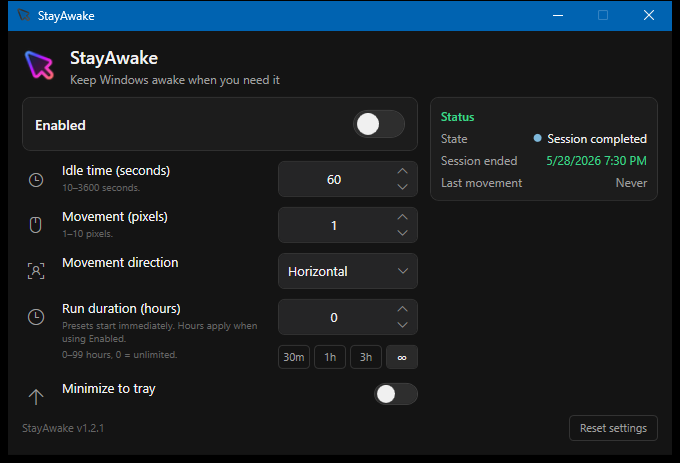
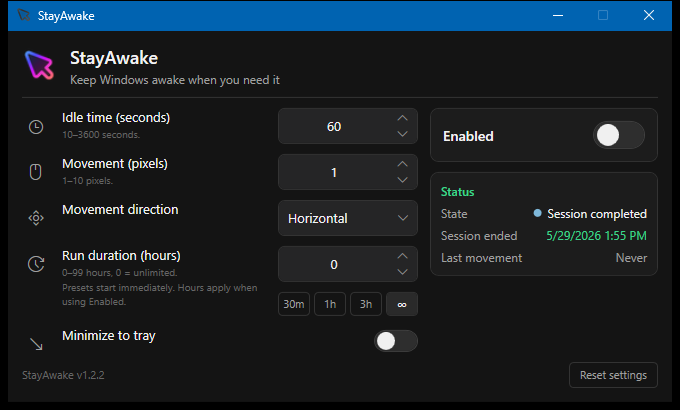
Release v1.2.2: relocate Enabled, Tab order, header divider
- New setting row icons; Enabled toggle moved to right column above Status

- Explicit keyboard Tab order (1-11); header separator below title

- Bump version to 1.2.2; refresh README screenshots and docs

diff --git a/StayAwake/MainWindow.xaml b/StayAwake/MainWindow.xaml
@@ -18,6 +18,7 @@
             <RowDefinition Height="Auto"/>
             <RowDefinition Height="Auto"/>
             <RowDefinition Height="Auto"/>
+            <RowDefinition Height="Auto"/>
         </Grid.RowDefinitions>
 
         <!-- Header -->
@@ -46,8 +47,13 @@
             </StackPanel>
         </Grid>
 
+        <Border Grid.Row="1"
+                Height="1"
+                Background="{StaticResource BorderSubtle}"
+                Margin="0,0,0,10"/>
+
         <!-- Content -->
-        <Grid Grid.Row="1" VerticalAlignment="Top">
+        <Grid Grid.Row="2" VerticalAlignment="Top">
             <Grid.ColumnDefinitions>
                 <ColumnDefinition Width="*"/>
                 <ColumnDefinition Width="12"/>
@@ -55,26 +61,7 @@
             </Grid.ColumnDefinitions>
 
             <!-- Main settings -->
-            <Grid Grid.Column="0">
-                <Grid.RowDefinitions>
-                    <RowDefinition Height="Auto"/>
-                    <RowDefinition Height="Auto"/>
-                </Grid.RowDefinitions>
-
-                <Border Grid.Row="0" Style="{StaticResource CardBorder}" Margin="0,0,0,10" Padding="12,8">
-                    <Grid Height="36">
-                        <TextBlock Text="Enabled"
-                                   FontSize="14"
-                                   FontWeight="SemiBold"
-                                   VerticalAlignment="Center"/>
-                        <ToggleButton Style="{StaticResource UtilityToggleLarge}"
-                                      IsChecked="{Binding Enabled}"
-                                      HorizontalAlignment="Right"
-                                      VerticalAlignment="Center"/>
-                    </Grid>
-                </Border>
-
-                <Grid Grid.Row="1" IsEnabled="{Binding CanEditSettings}">
+            <Grid Grid.Column="0" IsEnabled="{Binding CanEditSettings}">
                     <Grid.RowDefinitions>
                         <RowDefinition Height="Auto"/>
                         <RowDefinition Height="Auto"/>
@@ -96,6 +83,7 @@
                         </StackPanel>
                         <local:NumericStepper Grid.Column="2"
                                               VerticalAlignment="Top"
+                                              StepperTabIndex="1"
                                               MaxLength="4"
                                               Minimum="{x:Static local:SettingLimits.IdleSecondsMin}"
                                               Maximum="{x:Static local:SettingLimits.IdleSecondsMax}"
@@ -117,6 +105,7 @@
                         </StackPanel>
                         <local:NumericStepper Grid.Column="2"
                                               VerticalAlignment="Top"
+                                              StepperTabIndex="2"
                                               MaxLength="2"
                                               Minimum="{x:Static local:SettingLimits.MovementPixelsMin}"
                                               Maximum="{x:Static local:SettingLimits.MovementPixelsMax}"
@@ -131,10 +120,11 @@
                             <ColumnDefinition Width="*"/>
                             <ColumnDefinition Width="140"/>
                         </Grid.ColumnDefinitions>
-                        <TextBlock Grid.Column="0" Text="&#xE8B8;" Style="{StaticResource SettingRowIcon}"/>
+                        <TextBlock Grid.Column="0" Text="&#xE759;" Style="{StaticResource SettingRowIcon}"/>
                         <TextBlock Grid.Column="1" Text="Movement direction" Style="{StaticResource SettingLabel}"/>
                         <ComboBox Grid.Column="2"
                                   VerticalAlignment="Top"
+                                  KeyboardNavigation.TabIndex="3"
                                   Style="{StaticResource UtilityComboBox}"
                                   ItemContainerStyle="{StaticResource UtilityComboBoxItem}"
                                   ItemsSource="{Binding MovementModes}"
@@ -147,18 +137,19 @@
                             <ColumnDefinition Width="*"/>
                             <ColumnDefinition Width="140"/>
                         </Grid.ColumnDefinitions>
-                        <TextBlock Grid.Column="0" Text="&#xE823;" Style="{StaticResource SettingRowIcon}"/>
+                        <TextBlock Grid.Column="0" Text="&#xECC5;" Style="{StaticResource SettingRowIcon}"/>
                         <StackPanel Grid.Column="1" VerticalAlignment="Top">
                             <TextBlock Text="Run duration (hours)" Style="{StaticResource SettingLabel}"/>
+                            <TextBlock Text="{Binding SessionDurationHoursRangeHint}" Style="{StaticResource SettingHint}"/>
                             <TextBlock Text="Presets start immediately. Hours apply when using Enabled."
                                        Style="{StaticResource SettingHint}"/>
-                            <TextBlock Text="{Binding SessionDurationHoursRangeHint}" Style="{StaticResource SettingHint}"/>
                         </StackPanel>
                         <StackPanel Grid.Column="2"
                                     Width="140"
                                     HorizontalAlignment="Left"
                                     VerticalAlignment="Top">
-                            <local:NumericStepper MaxLength="2"
+                            <local:NumericStepper StepperTabIndex="4"
+                                                  MaxLength="2"
                                                   Minimum="{x:Static local:SettingLimits.SessionDurationHoursMin}"
                                                   Maximum="{x:Static local:SettingLimits.SessionDurationHoursMax}"
                                                   Step="{x:Static local:SettingLimits.SessionDurationHoursStep}"
@@ -176,6 +167,7 @@
                             </Grid.ColumnDefinitions>
                             <Button Grid.Column="0"
                                     Content="30m"
+                                    KeyboardNavigation.TabIndex="5"
                                     Command="{Binding StartPreset30mCommand}"
                                     HorizontalAlignment="Stretch">
                                 <Button.Style>
@@ -193,6 +185,7 @@
                             </Button>
                             <Button Grid.Column="2"
                                     Content="1h"
+                                    KeyboardNavigation.TabIndex="6"
                                     Command="{Binding StartPreset1hCommand}"
                                     HorizontalAlignment="Stretch">
                                 <Button.Style>
@@ -210,6 +203,7 @@
                             </Button>
                             <Button Grid.Column="4"
                                     Content="3h"
+                                    KeyboardNavigation.TabIndex="7"
                                     Command="{Binding StartPreset3hCommand}"
                                     HorizontalAlignment="Stretch">
                                 <Button.Style>
@@ -227,6 +221,7 @@
                             </Button>
                             <Button Grid.Column="6"
                                     Content="&#x221E;"
+                                    KeyboardNavigation.TabIndex="8"
                                     Command="{Binding StartPresetIndefiniteCommand}"
                                     ToolTip="Indefinite"
                                     HorizontalAlignment="Stretch">
@@ -253,21 +248,36 @@
                             <ColumnDefinition Width="*"/>
                             <ColumnDefinition Width="140"/>
                         </Grid.ColumnDefinitions>
-                        <TextBlock Grid.Column="0" Text="&#xE74A;" Style="{StaticResource SettingRowIcon}"/>
+                        <TextBlock Grid.Column="0" Text="&#xE741;" Style="{StaticResource SettingRowIcon}"/>
                         <TextBlock Grid.Column="1" Text="Minimize to tray" Style="{StaticResource SettingLabel}"/>
                         <Grid Grid.Column="2" Width="140" HorizontalAlignment="Left">
                             <ToggleButton Style="{StaticResource UtilityToggle}"
                                           IsChecked="{Binding MinimizeToTray}"
+                                          KeyboardNavigation.TabIndex="9"
                                           HorizontalAlignment="Right"
                                           VerticalAlignment="Top"
                                           Margin="0,4,0,0"/>
                         </Grid>
                     </Grid>
-                </Grid>
             </Grid>
 
-            <!-- Status -->
-            <Border Grid.Column="2" Style="{StaticResource CardBorder}" Padding="10,10" VerticalAlignment="Top">
+            <!-- Enabled + Status -->
+            <StackPanel Grid.Column="2" VerticalAlignment="Top">
+                <Border Style="{StaticResource CardBorder}" Padding="12,8">
+                    <Grid Height="36">
+                        <TextBlock Text="Enabled"
+                                   FontSize="14"
+                                   FontWeight="SemiBold"
+                                   VerticalAlignment="Center"/>
+                        <ToggleButton Style="{StaticResource UtilityToggleLarge}"
+                                      IsChecked="{Binding Enabled}"
+                                      KeyboardNavigation.TabIndex="10"
+                                      HorizontalAlignment="Right"
+                                      VerticalAlignment="Center"/>
+                    </Grid>
+                </Border>
+
+                <Border Style="{StaticResource CardBorder}" Padding="10,10" Margin="0,10,0,0">
                 <Grid>
                     <Grid.ColumnDefinitions>
                         <ColumnDefinition Width="Auto"/>
@@ -327,11 +337,12 @@
                                Text="{Binding LastMovementValue}"
                                Style="{StaticResource StatusValue}"/>
                 </Grid>
-            </Border>
+                </Border>
+            </StackPanel>
         </Grid>
 
         <!-- Footer -->
-        <Grid Grid.Row="2" Margin="0,10,0,0">
+        <Grid Grid.Row="3" Margin="0,10,0,0">
             <Grid.ColumnDefinitions>
                 <ColumnDefinition Width="*"/>
                 <ColumnDefinition Width="Auto"/>
@@ -342,6 +353,7 @@
                        VerticalAlignment="Center"/>
             <Button Grid.Column="1"
                     Content="Reset settings"
+                    KeyboardNavigation.TabIndex="11"
                     Style="{StaticResource FooterResetButton}"
                     Command="{Binding ResetSettingsCommand}"/>
         </Grid>

diff --git a/StayAwake/NumericStepper.xaml.cs b/StayAwake/NumericStepper.xaml.cs
@@ -31,6 +31,13 @@ public partial class NumericStepper : System.Windows.Controls.UserControl
             typeof(NumericStepper),
             new PropertyMetadata(4, OnMaxLengthChanged));
 
+    public static readonly DependencyProperty StepperTabIndexProperty =
+        DependencyProperty.Register(
+            nameof(StepperTabIndex),
+            typeof(int),
+            typeof(NumericStepper),
+            new PropertyMetadata(0, OnStepperTabIndexChanged));
+
     public NumericStepper()
     {
         InitializeComponent();
@@ -66,10 +73,22 @@ public partial class NumericStepper : System.Windows.Controls.UserControl
         set => SetValue(MaxLengthProperty, value);
     }
 
+    public int StepperTabIndex
+    {
+        get => (int)GetValue(StepperTabIndexProperty);
+        set => SetValue(StepperTabIndexProperty, value);
+    }
+
     private static void OnMaxLengthChanged(DependencyObject d, DependencyPropertyChangedEventArgs e)
     {
         if (d is NumericStepper stepper)
             stepper.PART_TextBox.MaxLength = (int)e.NewValue;
+    }
+
+    private static void OnStepperTabIndexChanged(DependencyObject d, DependencyPropertyChangedEventArgs e)
+    {
+        if (d is NumericStepper stepper)
+            KeyboardNavigation.SetTabIndex(stepper.PART_TextBox, (int)e.NewValue);
     }
 
     private void StepUpButton_Click(object sender, RoutedEventArgs e) => ApplyStep(+1);

diff --git a/docs/ARCHITECTURE.md b/docs/ARCHITECTURE.md
@@ -405,11 +405,12 @@ Same folder as `StayAwake.exe`—portable when the EXE is copied anywhere.
 
 | Area | Content |
 |------|---------|
-| Header | App icon + title + tagline |
-| Left card | Enabled toggle |
+| Header | App icon + title + tagline; subtle divider below |
 | Left grid | Idle seconds, movement pixels, direction combo, run duration (hours) + quick presets stacked under the stepper in the value column (30m/1h/3h/∞), minimize-to-tray |
-| Right card | Status: state pill + dot, remaining or session ended (label switches), last movement |
+| Right column | Enabled toggle card; Status card (state pill + dot, remaining or session ended, last movement) |
 | Footer | Version string, Reset settings button |
+
+**Tab order (explicit `TabIndex` 1–11):** idle stepper → movement stepper → direction combo → run-duration stepper → preset chips → minimize-to-tray → Enabled → Reset settings. Status is read-only and skipped.
 
 ### Binding strategy
 
@@ -674,4 +675,4 @@ Releases are driven by [`scripts/release.ps1`](../scripts/release.ps1) on Window
 
 ---
 
-*Last updated: v1.2.1 — combo disabled styling, setting-row spacing, screenshot refresh — .NET 8 / single-project WPF utility.*
+*Last updated: v1.2.2 — layout relocation, Tab order, setting icons, screenshot refresh — .NET 8 / single-project WPF utility.*

diff --git a/docs/POST_V1_ROADMAP.md b/docs/POST_V1_ROADMAP.md
@@ -28,6 +28,15 @@ Summary of the first iteration after the stable v1.0.0 release. See [BRANCHING.m
 | **Setting-row layout** | Top-aligned controls; uniform 10px row gaps; run-duration presets directly under stepper |
 | **Docs** | README screenshots regenerated for current UI |
 
+## Planned for v1.2.2
+
+| Initiative | Summary |
+|------------|---------|
+| **Setting icons** | Updated Segoe MDL2 Assets glyphs for each settings row |
+| **Layout** | Enabled toggle on right column above Status; settings-only left column; header divider |
+| **Tab order** | Explicit `TabIndex` 1–11 for keyboard navigation |
+| **Docs** | README screenshots regenerated for updated layout |
+
 ## v1.2+ (optional, not blocking)
 
 | Initiative | Summary |

diff --git a/CHANGELOG.md b/CHANGELOG.md
@@ -1,5 +1,13 @@
 # Changelog
 
+## v1.2.2
+
+- New icons for settings rows (Segoe MDL2 Assets glyphs in the main window)
+- Header separator line between title area and settings
+- Relocate **Enabled** toggle to the right column above **Status**; settings-only left column
+- Explicit Tab order for keyboard navigation (settings → Enabled → Reset settings)
+- README screenshots refreshed for the updated layout
+
 ## v1.2.1
 
 - Fix disabled **Movement direction** combo box styling to match other locked settings (disabled background, border, and muted text)

diff --git a/docs/screenshots/README.md b/docs/screenshots/README.md
@@ -2,7 +2,7 @@
 
 Capture guide for README images. Use a **Release** build on Windows with dark theme enabled.
 
-Last full refresh: **v1.2.1** (setting-row spacing, run-duration preset stack under the hours stepper).
+Last full refresh: **v1.2.2** (Enabled toggle moved to right column above Status; settings-only left column).
 
 ## Recommended specs
 
@@ -18,7 +18,7 @@ Last full refresh: **v1.2.1** (setting-row spacing, run-duration preset stack un
 | File | How to capture |
 |------|----------------|
 | `main-active.png` | Enable session, idle 60s, run duration 1h. Status: **Active**, remaining time visible. |
-| `main-disabled.png` | Enabled off. All settings editable. Shows run-duration presets tucked under the hours stepper (v1.2.1 layout). |
+| `main-disabled.png` | Enabled off. All settings editable. **Enabled** toggle in the right column above **Status**; run-duration presets under the hours stepper. |
 | `main-session-completed.png` | Let a short session expire, or use `STAYAWAKE_SCREENSHOT=session-completed` (1s session). Status: **Session completed**; **Session ended** row shows local date and time. |
 | `tray-menu.png` | Right-click tray icon with context menu fully visible. |
 